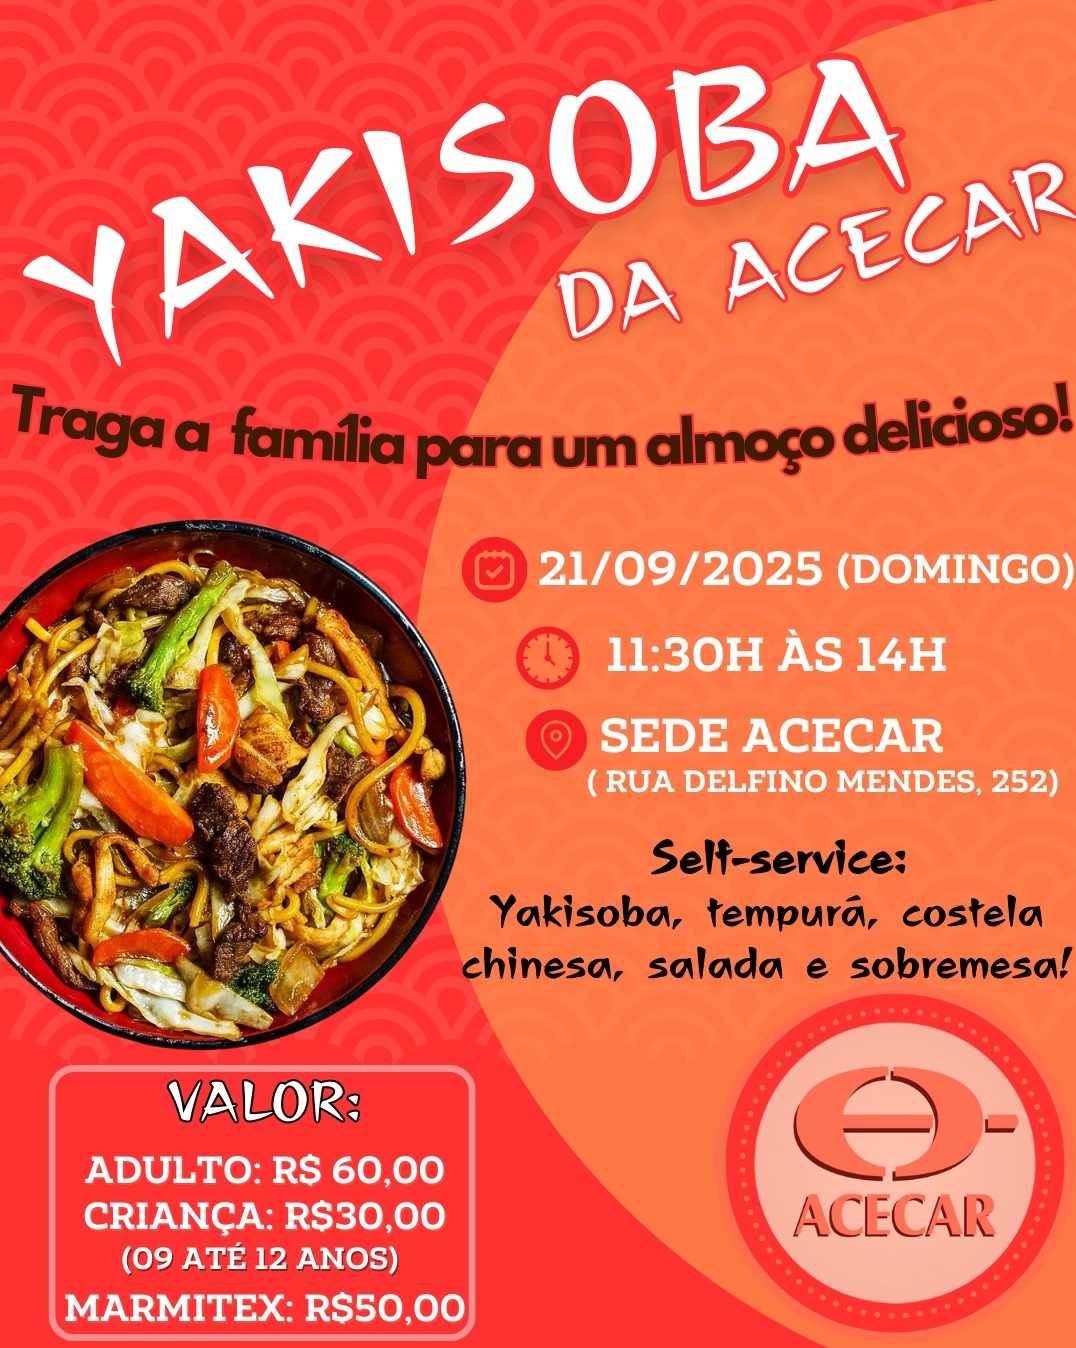
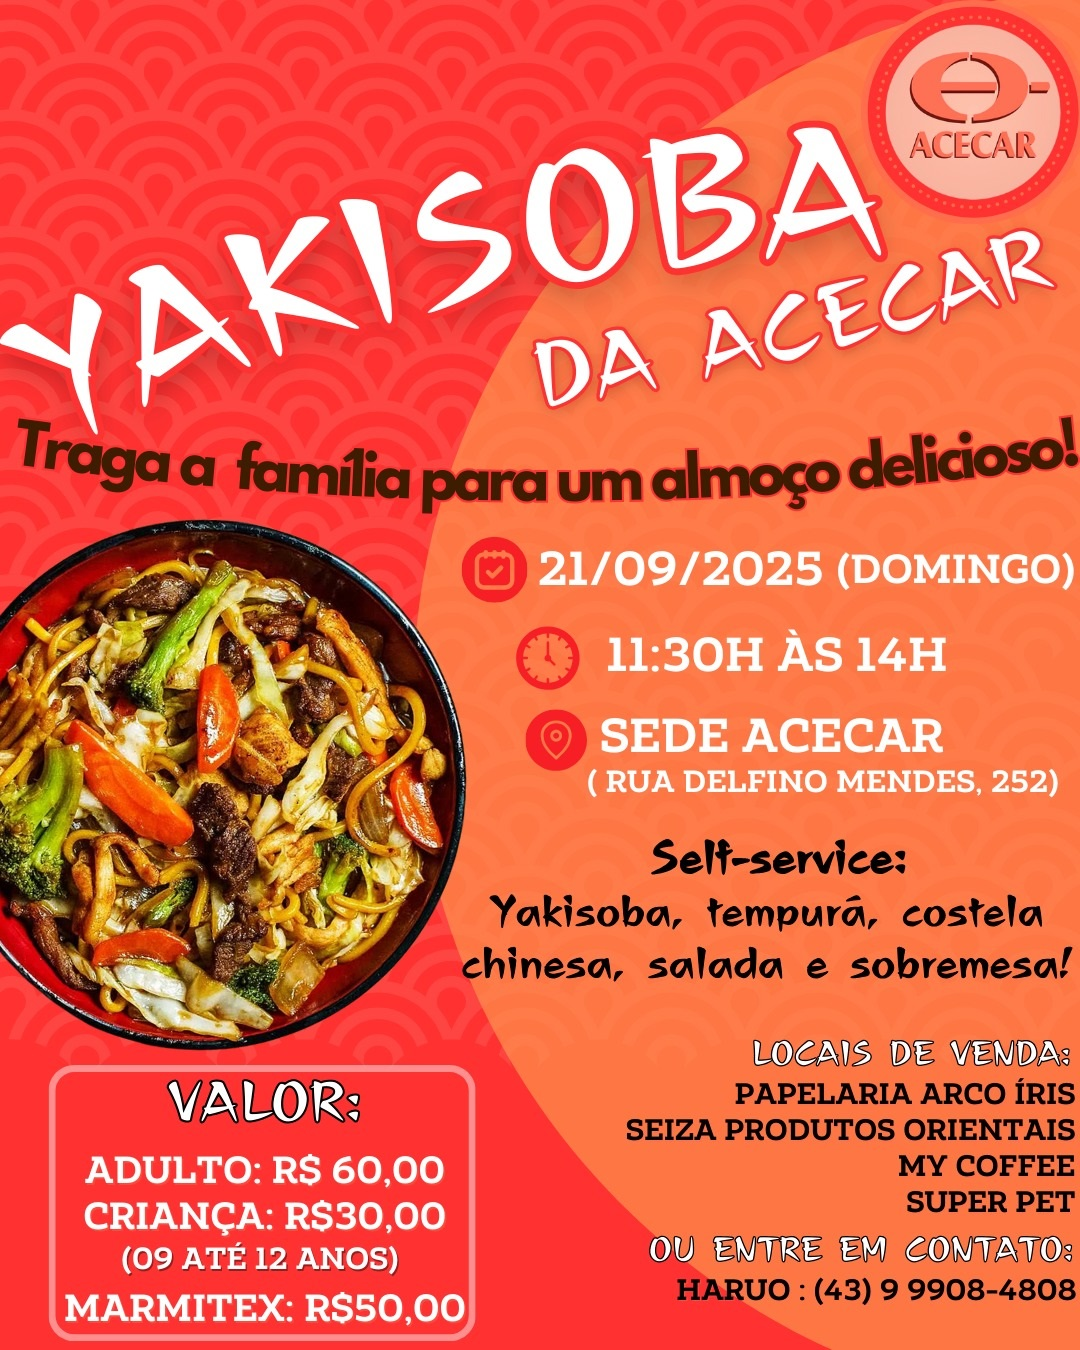
02_09_25_v1

diff --git a/script.js b/script.js
@@ -5797,8 +5797,8 @@ ${(est.cardapioLink || (est.menuImages && est.menuImages.length) || est.contact)
             image: "images/informacoes/eventos/acecar.jpg",
             name: "Yakisoba da Acecar",
             date: "21/09/25",
-            address: "Acecar",
-            contact: "#",
+            address: "R. Delfino Mendes, 252 - Carlopolis",
+            contact: "(43) 99908-4808",
            
 
 
